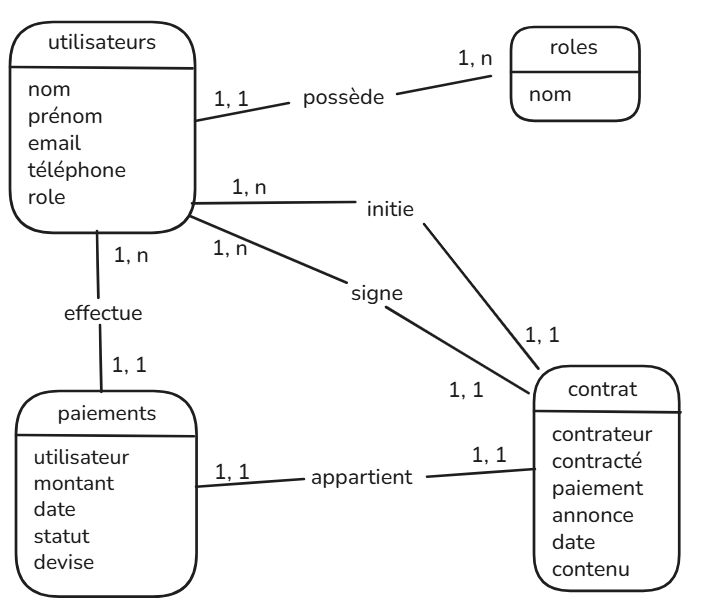
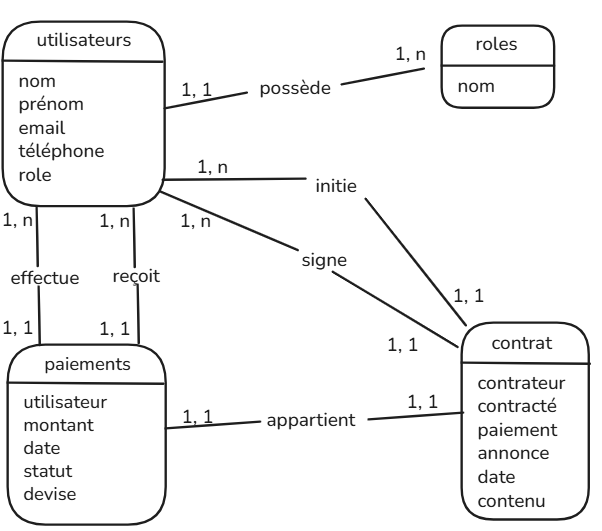
update payments table

diff --git a/README.md b/README.md
@@ -13,7 +13,7 @@ Décrivez votre application en 3-5 phrases : problématique, objectif et fonctio
 
 **MCD (Modèle Conceptuel de Données)**
 
-![mcd](assets/mcd.png)
+![alt text](assets/mcd.png)
 
 **MLD (Modèle Logique de Données)**
 
@@ -24,8 +24,8 @@ OU
 ```
 users(id, lastName, firstName, email, phoneNumber, role_id)
 roles(id, name)
-payments(id, total, date, status, currency, user_id)
-contracts(id, date, content, ad_id, contractor_user_id, client_user_id)
+payments(id, total, date, status, currency, user_id, user_paid_id)
+contracts(id, date, content, listing_id, contractor_user_id, client_user_id)
 ```
 
 **MPD (Modèle Physique de Données)**
